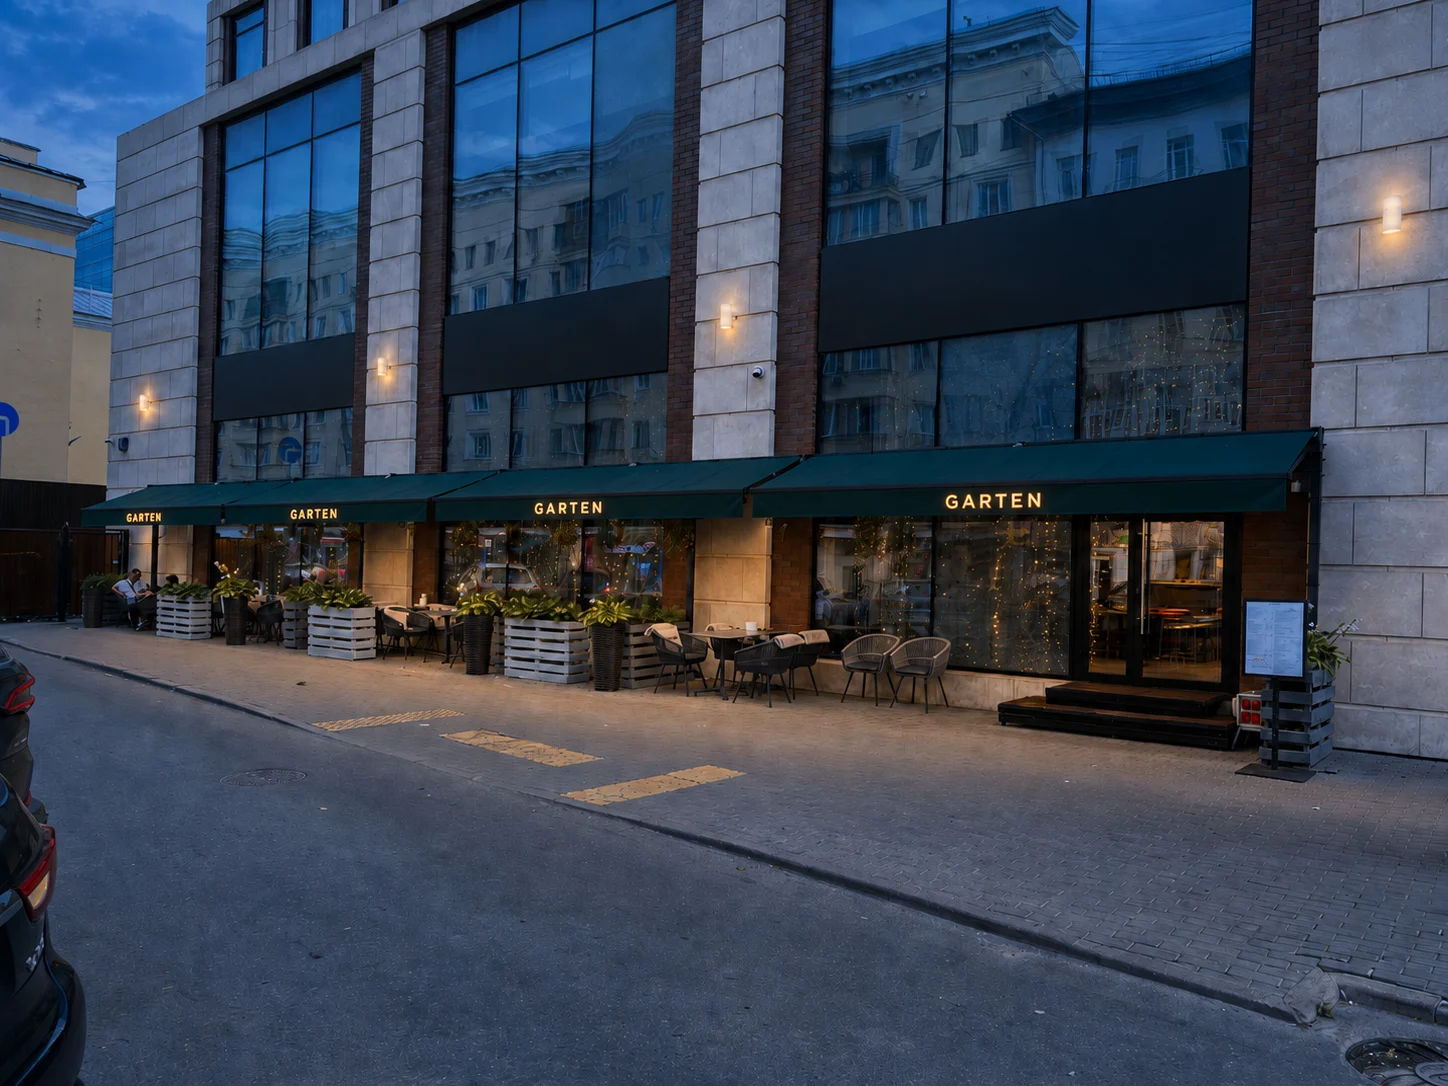
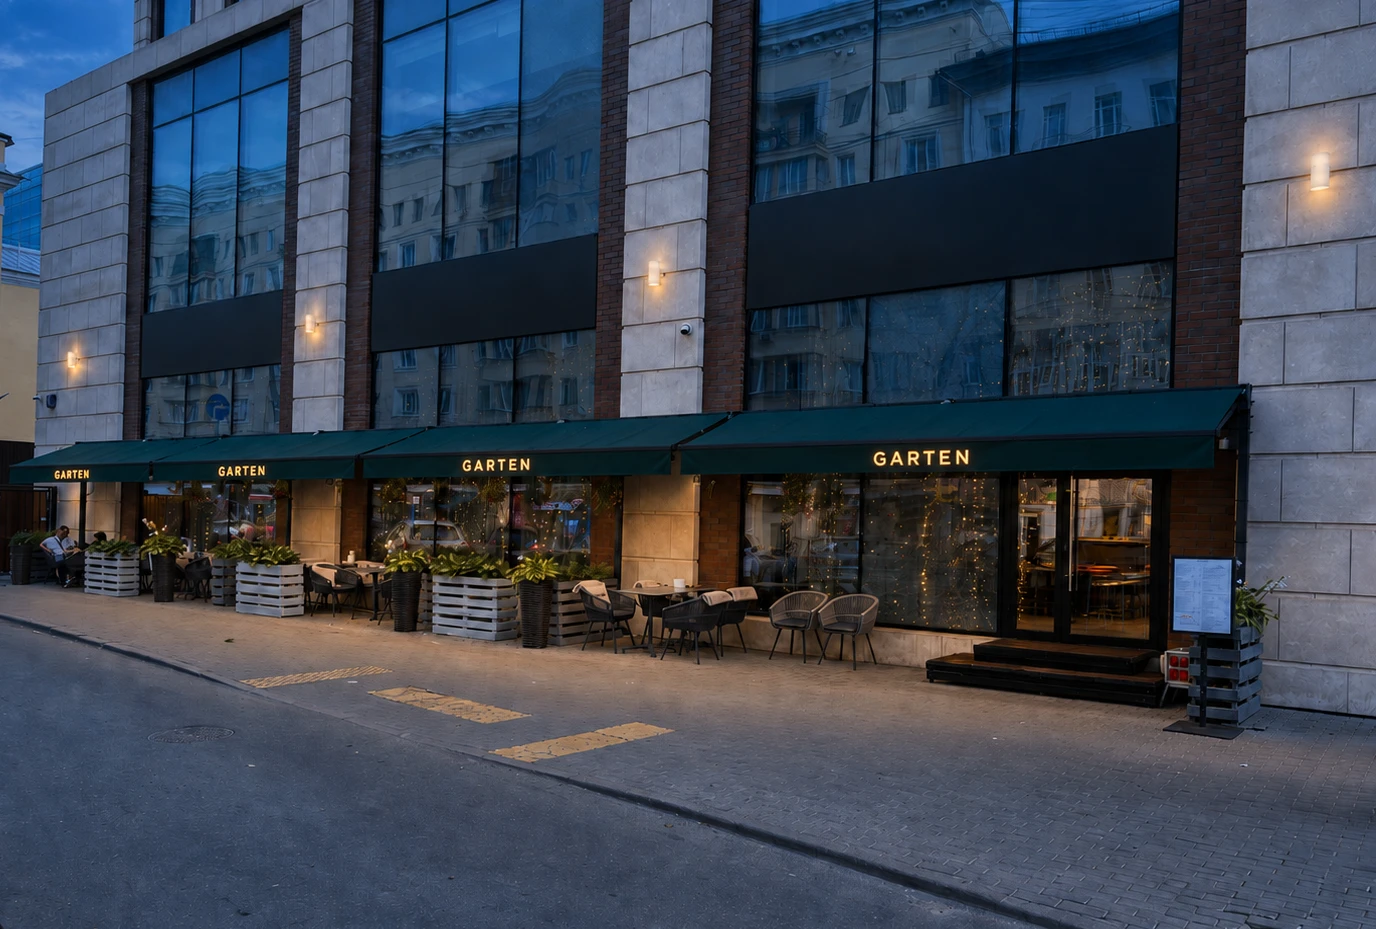
Refine configurator intro presentation

diff --git a/src/app/globals.css b/src/app/globals.css
@@ -2845,11 +2845,12 @@ textarea {
 
 .configurator-intro__stage {
   position: relative;
-  height: clamp(
+  --configurator-intro-height: clamp(
     34rem,
     calc(70svh - var(--header-height) * 0.7),
     52rem
   );
+  height: var(--configurator-intro-height);
   min-height: 0;
   overflow: hidden;
   background: var(--background);
@@ -2902,7 +2903,7 @@ textarea {
   z-index: 2;
   display: flex;
   height: 100%;
-  align-items: flex-end;
+  align-items: flex-start;
   padding-block: 4rem clamp(4rem, 8vh, 6rem);
 }
 
@@ -3460,13 +3461,15 @@ textarea {
     top: calc(var(--header-height) - 14vh);
     right: 4%;
     bottom: -2vh;
-    left: 18%;
-    transform: translate(6vw, -2vh);
+    left: clamp(18rem, 29.5vw, 38rem);
+    transform: none;
+    mask-image: none;
   }
 
   .configurator-intro__image {
-    transform: translate(5vw, -10vh) scale(0.84);
+    transform: translateX(20%) scale(1.2);
     transform-origin: center;
+    object-position: center;
   }
 
   .configurator-intro__copy {
@@ -3549,16 +3552,16 @@ textarea {
   }
 
   .configurator-intro__media {
-    top: var(--header-height);
+    top: calc(var(--header-height) - 1.25rem);
     right: -12%;
     bottom: auto;
     left: -12%;
     height: clamp(
-      34rem,
-      calc(70svh - var(--header-height) * 0.7),
-      52rem
+      35.5rem,
+      calc(70svh - var(--header-height) * 0.7 + 1.5rem),
+      53.5rem
     );
-    transform: none;
+    transform: translateX(3rem);
     background: var(--background);
     mask-image: none;
   }
@@ -3568,6 +3571,23 @@ textarea {
     transform-origin: center;
     object-fit: cover;
     object-position: center;
+  }
+
+  .configurator-intro__media::after {
+    position: absolute;
+    right: 0;
+    bottom: 0;
+    left: 0;
+    z-index: 1;
+    height: clamp(4.5rem, 12vh, 7rem);
+    background: linear-gradient(
+      180deg,
+      rgb(19 19 19 / 0%) 0%,
+      rgb(19 19 19 / 72%) 58%,
+      var(--background) 100%
+    );
+    content: "";
+    pointer-events: none;
   }
 
   .configurator-intro__content {
@@ -3581,11 +3601,19 @@ textarea {
   .configurator-intro__visual-label {
     right: 1rem;
     bottom: 1rem;
+    z-index: 2;
     font-size: 0.58rem;
   }
 }
 
 @media (min-width: 64rem) {
+  .configurator-intro__media {
+    top: var(--header-height);
+    right: 0;
+    bottom: auto;
+    height: var(--configurator-intro-height);
+  }
+
   .configurator-intro__edge-fade {
     position: fixed;
     z-index: 1;

diff --git a/src/components/sections/configurator-intro-scene.tsx b/src/components/sections/configurator-intro-scene.tsx
@@ -38,12 +38,12 @@ export function ConfiguratorIntroScene({
       <div className="configurator-intro__stage">
         <figure className="configurator-intro__media">
           <Image
-            alt="Dunkle technische Konzeptzeichnung einer Markise mit beleuchtetem Leuchtvolant vor einer Fassade."
+            alt="Dunkle technische Konzeptzeichnung einer Markise mit Maßangaben für Volanthöhe und Volantlänge."
             className="configurator-intro__image"
             fill
             priority
             sizes="(min-width: 64rem) 78vw, 100vw"
-            src="/images/lichtsaum-konfigurator-markise-leuchtvolant-konzept-original.png"
+            src="/images/lichtsaum-konfigurator-header-technical.png"
             unoptimized
           />
           <figcaption className="configurator-intro__visual-label">
